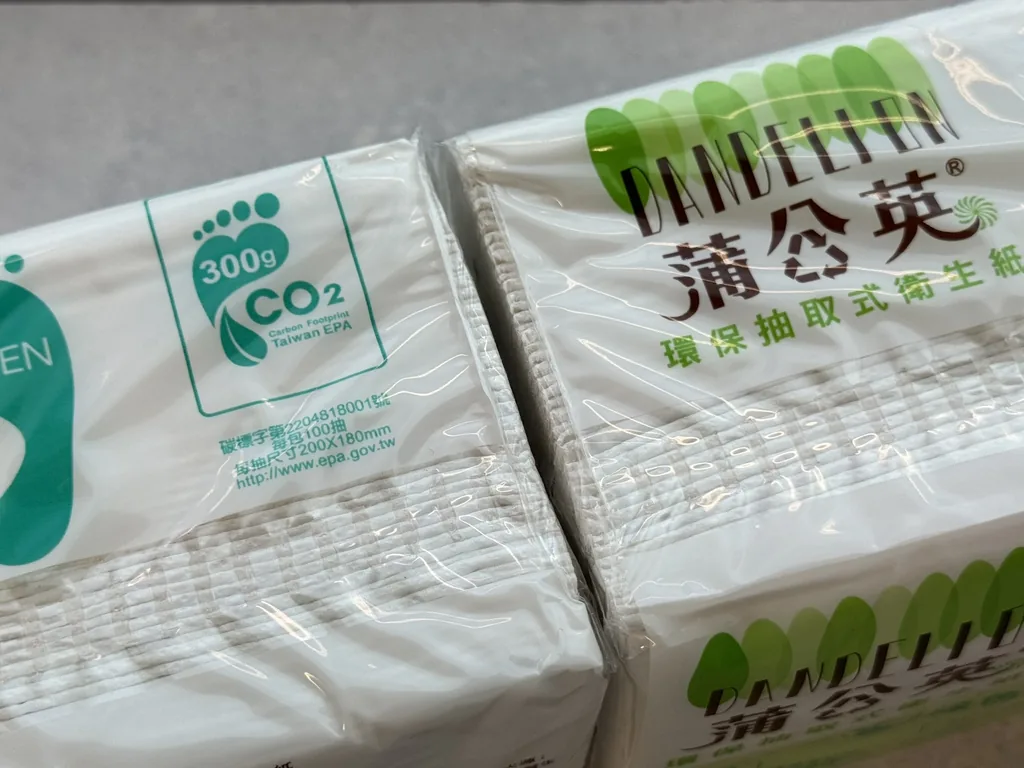
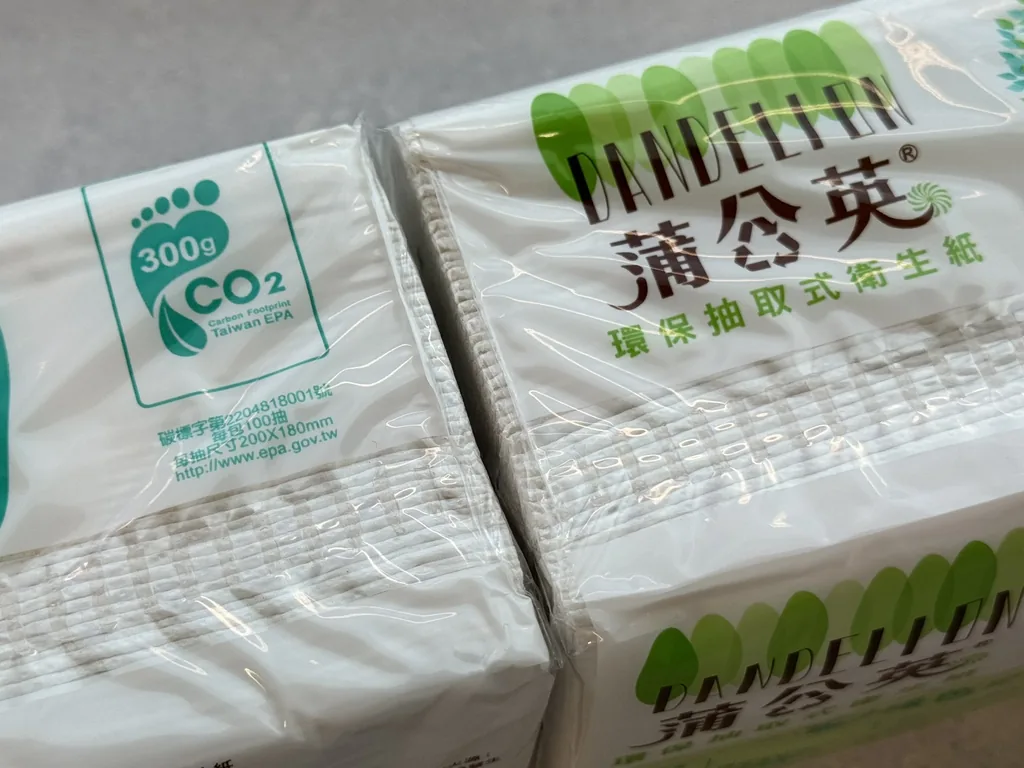
紙張 Step 03 照片依調整區重新裁切（網站＋Figma 母版）
Claude-Session: https://claude.ai/code/session_01DNVcy9hAWfEoBXu333tfb9

diff --git a/site/index.html b/site/index.html
@@ -60,7 +60,7 @@
   if (d.classList.contains('is-static') || !el) { if (el) el.remove(); boot(); return; }
   d.classList.add('is-loading');
 
-  var LIST = [["assets/01-hero/logo-mark.svg?v=b183668f",4858],["assets/01-hero/logo-zh.svg?v=8d346f0f",5519],["assets/01-hero/logo-en.svg?v=60e7896b",8959],["assets/common/icon-arrow-w-20.svg?v=a434881c",705],["assets/common/icon-arrow-dark.svg?v=ef3e488f",705],["assets/01-hero/cover-4.webp?v=cbeb0ba1",580948],["assets/01-hero/cover-3.webp?v=8b7ac2f9",131604],["assets/01-hero/cover-2.webp?v=2b4a7948",444268],["assets/01-hero/cover-1.webp?v=1ca78f26",63926],["assets/01-hero/icon-safe.svg?v=f5c482a6",1689],["assets/01-hero/icon-leaf.svg?v=a3b2b098",1502],["assets/01-hero/icon-recycle.svg?v=cdbc3b23",4489],["assets/common/icon-arrow-w.svg?v=59f46b29",703],["assets/01-hero/icon-info.svg?v=674dfdb8",2192],["assets/01-hero/tooltip-arrow.svg?v=447f4627",350],["assets/02-about/card2-ellipse-a.svg?v=ba683ba5",425],["assets/02-about/card2-ellipse-b.webp?v=a199b924",1980],["assets/02-about/card2-dot.svg?v=72e9770f",453],["assets/02-about/card3-ellipse-outer.svg?v=b56266ff",693],["assets/02-about/card3-ellipse-inner.webp?v=166f4230",1430],["assets/02-about/card3-dot.svg?v=4a92476e",852],["assets/02-about/value-cycle-s-band.svg?v=9bc24605",3054],["assets/02-about/value-cycle-l-band.svg?v=dad0d414",3024],["assets/02-about/infinity-breathe.json?v=78099a33",61823],["assets/02-about/value-cycle-s-nodes.svg?v=6b7dabd6",244089],["assets/03-paper/arrow.svg?v=bd736476",705],["assets/03-paper/step1-pulper.webp?v=898fddc0",57636],["assets/03-paper/step2-workers.webp?v=18351ed7",52372],["assets/03-paper/step3-tissue.webp?v=c2b03834",65784],["assets/03-paper/ecolabel-1.svg?v=a0c69803",3407],["assets/03-paper/ecolabel-2.svg?v=e5224c42",23883],["assets/03-paper/ecolabel-fsc.svg?v=fd5a7d01",24928],["assets/04-process/card1-typing.webp?v=0433508a",27372],["assets/04-process/icon-files.svg?v=92c13e3c",2045],["assets/04-process/card2-truck.webp?v=d0743a65",85466],["assets/04-process/icon-truck.svg?v=7d4e6f0b",2867],["assets/04-process/card3-pulper.webp?v=908b6834",92726],["assets/04-process/icon-drop.svg?v=891a87cc",1611],["assets/04-process/card4-laptop.webp?v=f0ed0319",65938],["assets/04-process/card4-screen.webp?v=4523cf3f",32332],["assets/04-process/icon-recycle.svg?v=5d97afe7",2217],["assets/04-process/icon-info.svg?v=c065a1df",2194],["assets/04-process/booking-mockup2.webp?v=409ea280",542670],["assets/04-process/prepare-1.webp?v=bd6705ba",65766],["assets/04-process/prepare-2.webp?v=c5dd358f",51946],["assets/04-process/prepare-3.webp?v=a8ebbab0",68646],["assets/04-process/route-home@2x.webp?v=b1c56fc9",53214],["assets/04-process/route-industrial@2x.webp?v=e5549499",52052],["assets/05-green/m-arrow-next.svg?v=bd736476",705],["assets/05-green/greenpts-coins.webp?v=fbf73649",43216],["assets/05-green/paper-dandelion.webp?v=f6cbc137",57764],["assets/05-green/m-icon-cart.svg?v=b4d04a8a",1651],["assets/05-green/icon-cart.svg?v=70034d6f",1837],["assets/05-green/m-icon-hand-heart.svg?v=b0851ac8",2975],["assets/05-green/icon-hand-heart.svg?v=02694811",3159],["assets/05-green/certificate-pdf@3x.webp?v=3c957f13",69942],["assets/05-green/m-icon-badge-check.svg?v=95dab9fd",3534],["assets/05-green/icon-badge-check.svg?v=bb8b13ae",3797],["assets/05-green/esg-hand.webp?v=71b1f3e5",26122],["assets/05-green/certificate-full@2x.webp?v=0bf1eb20",233280],["assets/06-strip/photo-forklift.webp?v=fc1b3409",59522],["assets/06-strip/photo-windmill.webp?v=a3225c6b",20270],["assets/06-strip/photo-seedling.webp?v=32d9afdc",43038],["assets/06-strip/photo-lab.webp?v=bd52192d",72892],["assets/06-strip/photo-pulp-stack.webp?v=81e3b8c0",34264],["assets/06-strip/photo-paper-roll.webp?v=be0c18fa",26138],["assets/07-faq/icon-minus-24.svg?v=a8a4a195",289],["assets/07-faq/icon-minus-32.svg?v=63282dd2",302],["assets/07-faq/icon-add-24.svg?v=9729f4af",309],["assets/07-faq/icon-add-32.svg?v=d2c37445",309],["assets/08-cta/bg-composite.webp?v=e24e1c79",52248],["assets/09-footer/logo-mark.svg?v=d8a5953a",4865],["assets/09-footer/logo-zh.svg?v=16f81574",5534],["assets/09-footer/logo-en.svg?v=a9707496",8800],["assets/09-footer/line-top.svg?v=216b68ae",248],["assets/04-process/card4-screen-mask.svg?v=c138c612",765]];
+  var LIST = [["assets/01-hero/logo-mark.svg?v=b183668f",4858],["assets/01-hero/logo-zh.svg?v=8d346f0f",5519],["assets/01-hero/logo-en.svg?v=60e7896b",8959],["assets/common/icon-arrow-w-20.svg?v=a434881c",705],["assets/common/icon-arrow-dark.svg?v=ef3e488f",705],["assets/01-hero/cover-4.webp?v=cbeb0ba1",580948],["assets/01-hero/cover-3.webp?v=8b7ac2f9",131604],["assets/01-hero/cover-2.webp?v=2b4a7948",444268],["assets/01-hero/cover-1.webp?v=1ca78f26",63926],["assets/01-hero/icon-safe.svg?v=f5c482a6",1689],["assets/01-hero/icon-leaf.svg?v=a3b2b098",1502],["assets/01-hero/icon-recycle.svg?v=cdbc3b23",4489],["assets/common/icon-arrow-w.svg?v=59f46b29",703],["assets/01-hero/icon-info.svg?v=674dfdb8",2192],["assets/01-hero/tooltip-arrow.svg?v=447f4627",350],["assets/02-about/card2-ellipse-a.svg?v=ba683ba5",425],["assets/02-about/card2-ellipse-b.webp?v=a199b924",1980],["assets/02-about/card2-dot.svg?v=72e9770f",453],["assets/02-about/card3-ellipse-outer.svg?v=b56266ff",693],["assets/02-about/card3-ellipse-inner.webp?v=166f4230",1430],["assets/02-about/card3-dot.svg?v=4a92476e",852],["assets/02-about/value-cycle-s-band.svg?v=9bc24605",3054],["assets/02-about/value-cycle-l-band.svg?v=dad0d414",3024],["assets/02-about/infinity-breathe.json?v=78099a33",61823],["assets/02-about/value-cycle-s-nodes.svg?v=6b7dabd6",244089],["assets/03-paper/arrow.svg?v=bd736476",705],["assets/03-paper/step1-pulper.webp?v=898fddc0",57636],["assets/03-paper/step2-workers.webp?v=18351ed7",52372],["assets/03-paper/step3-tissue.webp?v=6018bc2c",65926],["assets/03-paper/ecolabel-1.svg?v=a0c69803",3407],["assets/03-paper/ecolabel-2.svg?v=e5224c42",23883],["assets/03-paper/ecolabel-fsc.svg?v=fd5a7d01",24928],["assets/04-process/card1-typing.webp?v=0433508a",27372],["assets/04-process/icon-files.svg?v=92c13e3c",2045],["assets/04-process/card2-truck.webp?v=d0743a65",85466],["assets/04-process/icon-truck.svg?v=7d4e6f0b",2867],["assets/04-process/card3-pulper.webp?v=908b6834",92726],["assets/04-process/icon-drop.svg?v=891a87cc",1611],["assets/04-process/card4-laptop.webp?v=f0ed0319",65938],["assets/04-process/card4-screen.webp?v=4523cf3f",32332],["assets/04-process/icon-recycle.svg?v=5d97afe7",2217],["assets/04-process/icon-info.svg?v=c065a1df",2194],["assets/04-process/booking-mockup2.webp?v=409ea280",542670],["assets/04-process/prepare-1.webp?v=bd6705ba",65766],["assets/04-process/prepare-2.webp?v=c5dd358f",51946],["assets/04-process/prepare-3.webp?v=a8ebbab0",68646],["assets/04-process/route-home@2x.webp?v=b1c56fc9",53214],["assets/04-process/route-industrial@2x.webp?v=e5549499",52052],["assets/05-green/m-arrow-next.svg?v=bd736476",705],["assets/05-green/greenpts-coins.webp?v=fbf73649",43216],["assets/05-green/paper-dandelion.webp?v=f6cbc137",57764],["assets/05-green/m-icon-cart.svg?v=b4d04a8a",1651],["assets/05-green/icon-cart.svg?v=70034d6f",1837],["assets/05-green/m-icon-hand-heart.svg?v=b0851ac8",2975],["assets/05-green/icon-hand-heart.svg?v=02694811",3159],["assets/05-green/certificate-pdf@3x.webp?v=3c957f13",69942],["assets/05-green/m-icon-badge-check.svg?v=95dab9fd",3534],["assets/05-green/icon-badge-check.svg?v=bb8b13ae",3797],["assets/05-green/esg-hand.webp?v=71b1f3e5",26122],["assets/05-green/certificate-full@2x.webp?v=0bf1eb20",233280],["assets/06-strip/photo-forklift.webp?v=fc1b3409",59522],["assets/06-strip/photo-windmill.webp?v=a3225c6b",20270],["assets/06-strip/photo-seedling.webp?v=32d9afdc",43038],["assets/06-strip/photo-lab.webp?v=bd52192d",72892],["assets/06-strip/photo-pulp-stack.webp?v=81e3b8c0",34264],["assets/06-strip/photo-paper-roll.webp?v=be0c18fa",26138],["assets/07-faq/icon-minus-24.svg?v=a8a4a195",289],["assets/07-faq/icon-minus-32.svg?v=63282dd2",302],["assets/07-faq/icon-add-24.svg?v=9729f4af",309],["assets/07-faq/icon-add-32.svg?v=d2c37445",309],["assets/08-cta/bg-composite.webp?v=e24e1c79",52248],["assets/09-footer/logo-mark.svg?v=d8a5953a",4865],["assets/09-footer/logo-zh.svg?v=16f81574",5534],["assets/09-footer/logo-en.svg?v=a9707496",8800],["assets/09-footer/line-top.svg?v=216b68ae",248],["assets/04-process/card4-screen-mask.svg?v=c138c612",765]];
   var MIN = 600, MAX = 15000, CONC = 6, t0 = performance.now();
   var total = 0, got = {}, done = 0, finished = false;
   LIST.forEach(function (it) { total += it[1]; });
@@ -516,7 +516,7 @@
         </div>
         <figure class="cl-paper__media" data-figma="1695:20290" data-figma-s="1695:19799">
           <span class="cl-paper__photo cl-zoom cl-skeleton" data-figma="1695:20291" data-figma-s="1695:19800">
-            <img class="cl-paper__img cl-paper__img--tissue" src="assets/03-paper/step3-tissue.webp?v=c2b03834" alt="蒲公英環保衛生紙" width="1024" height="768" loading="lazy">
+            <img class="cl-paper__img cl-paper__img--tissue" src="assets/03-paper/step3-tissue.webp?v=6018bc2c" alt="蒲公英環保衛生紙" width="1024" height="768" loading="lazy">
           </span>
           <figcaption class="cl-info-card cl-paper__note" data-figma="1695:20292" data-figma-s="1695:19801">
             <span class="cl-paper__note-row" data-figma="1695:20297" data-figma-s="1695:19806">
